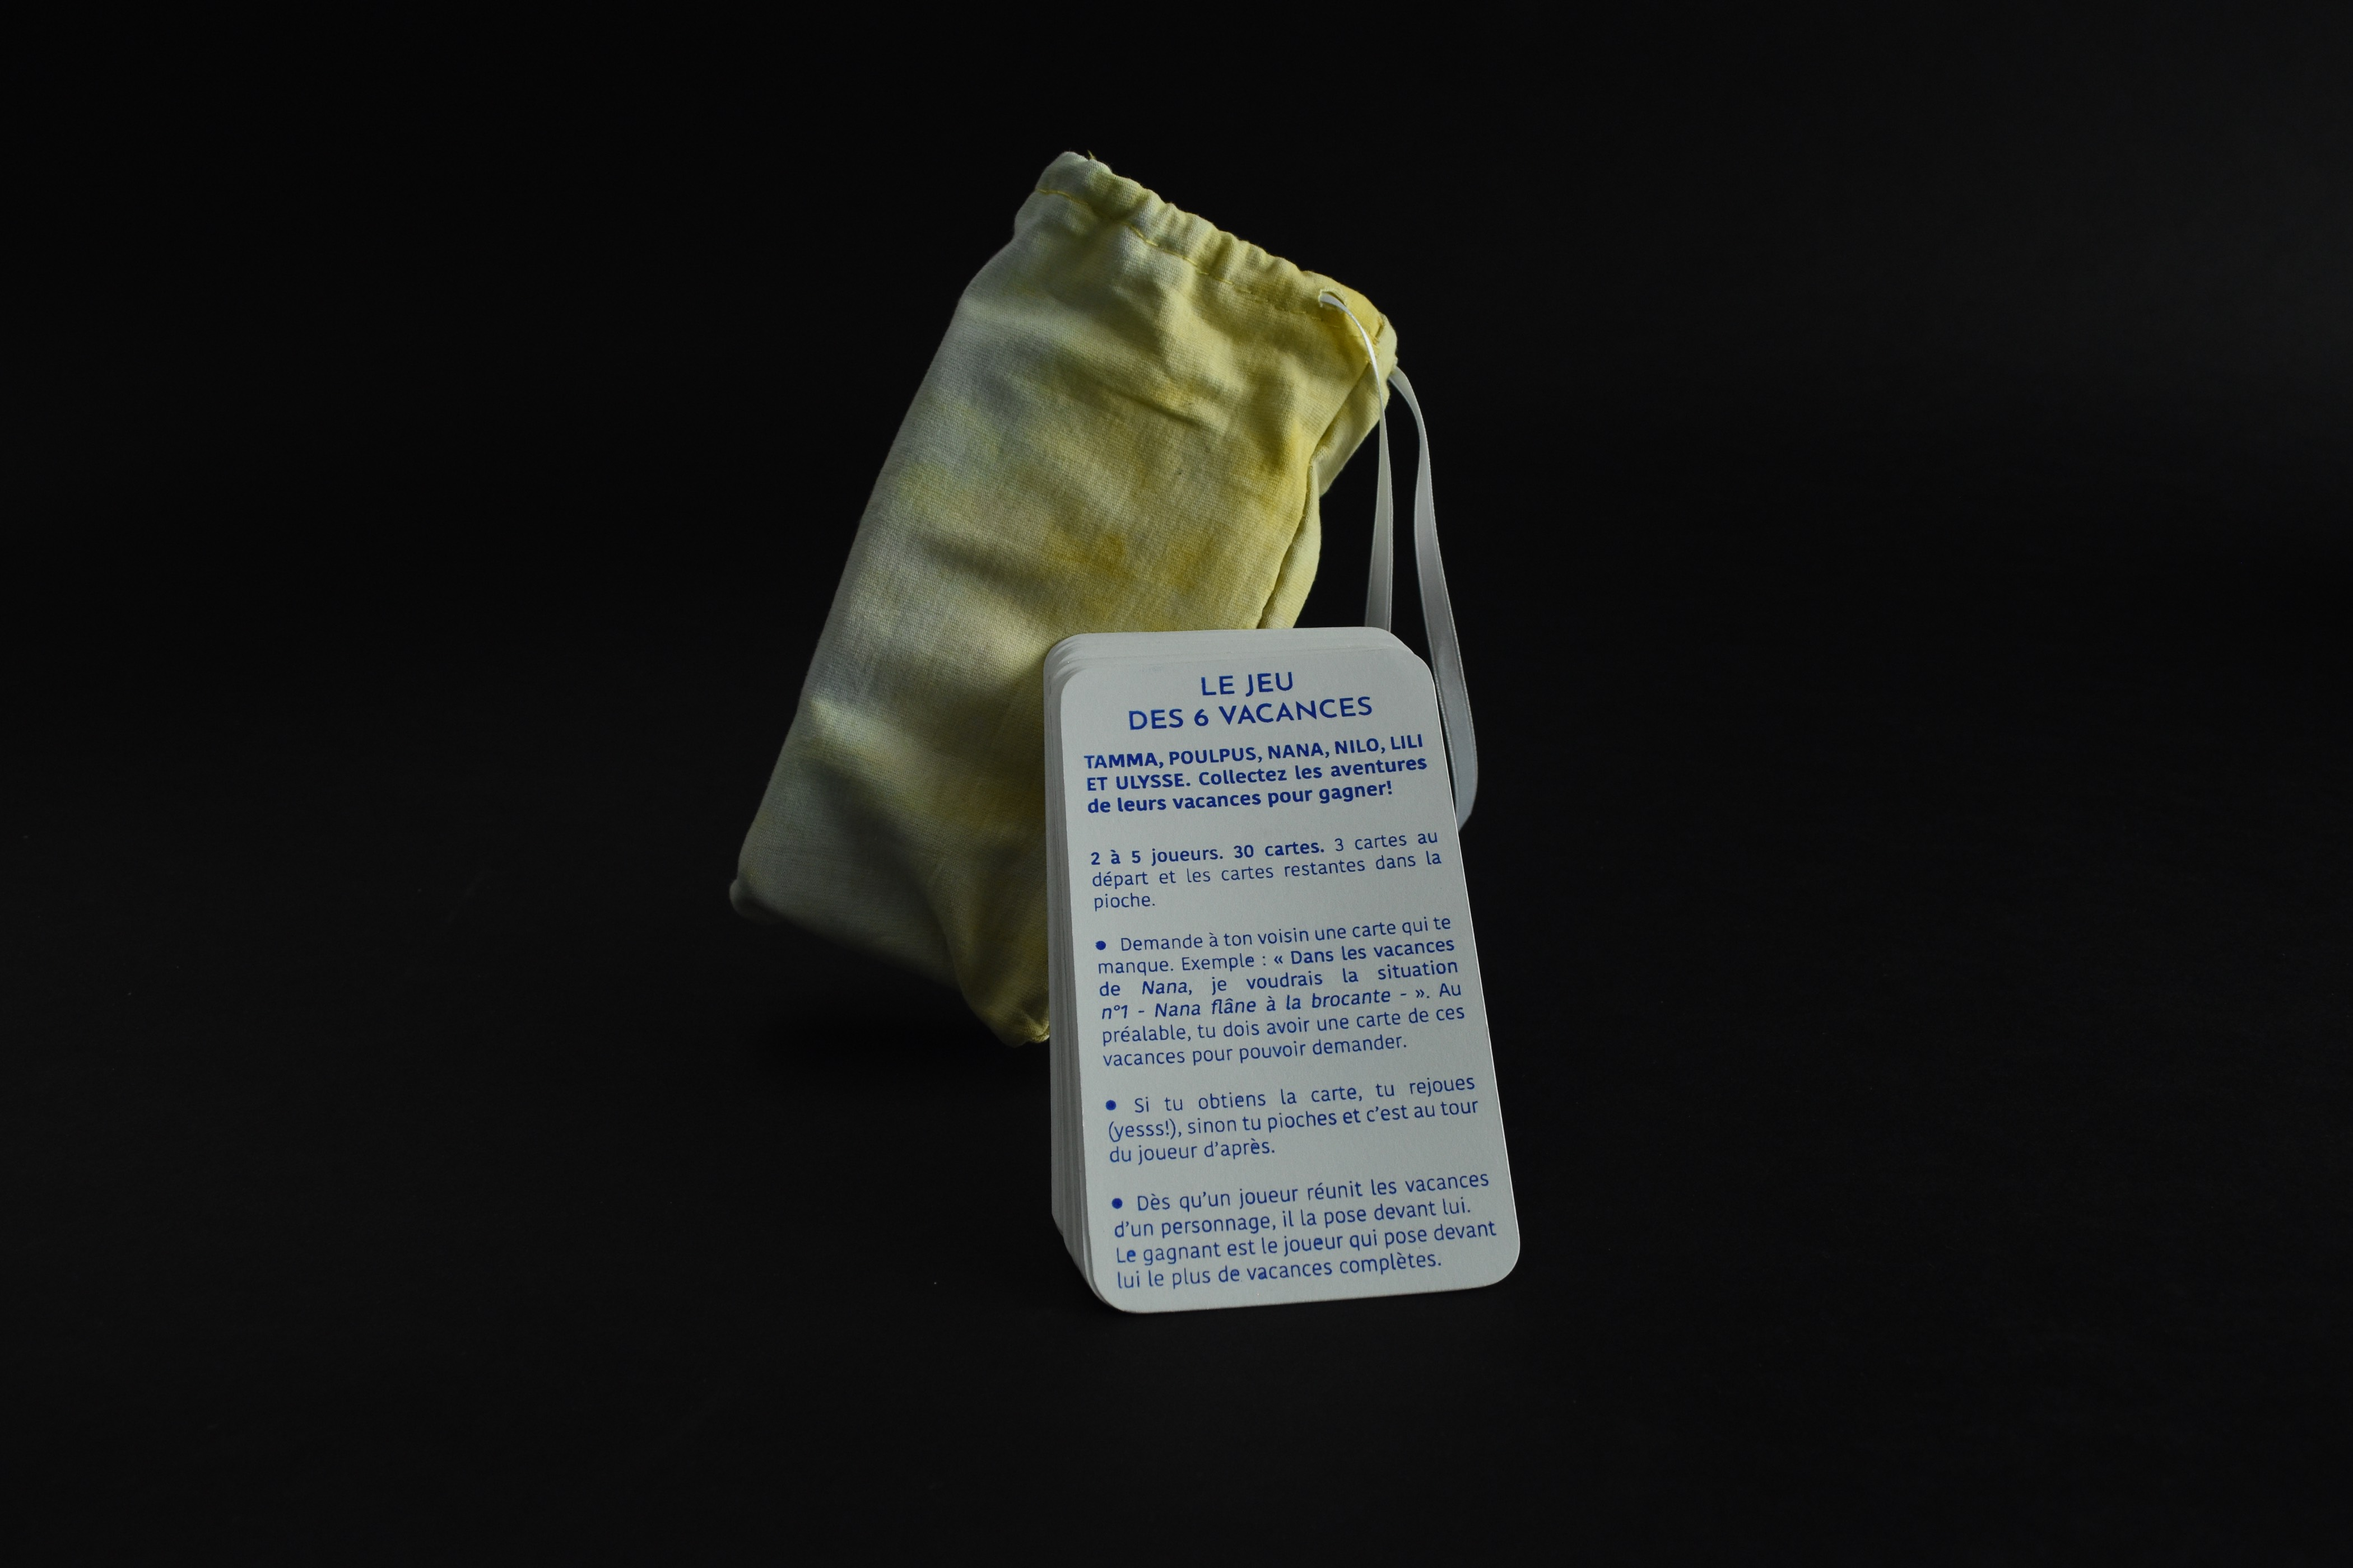
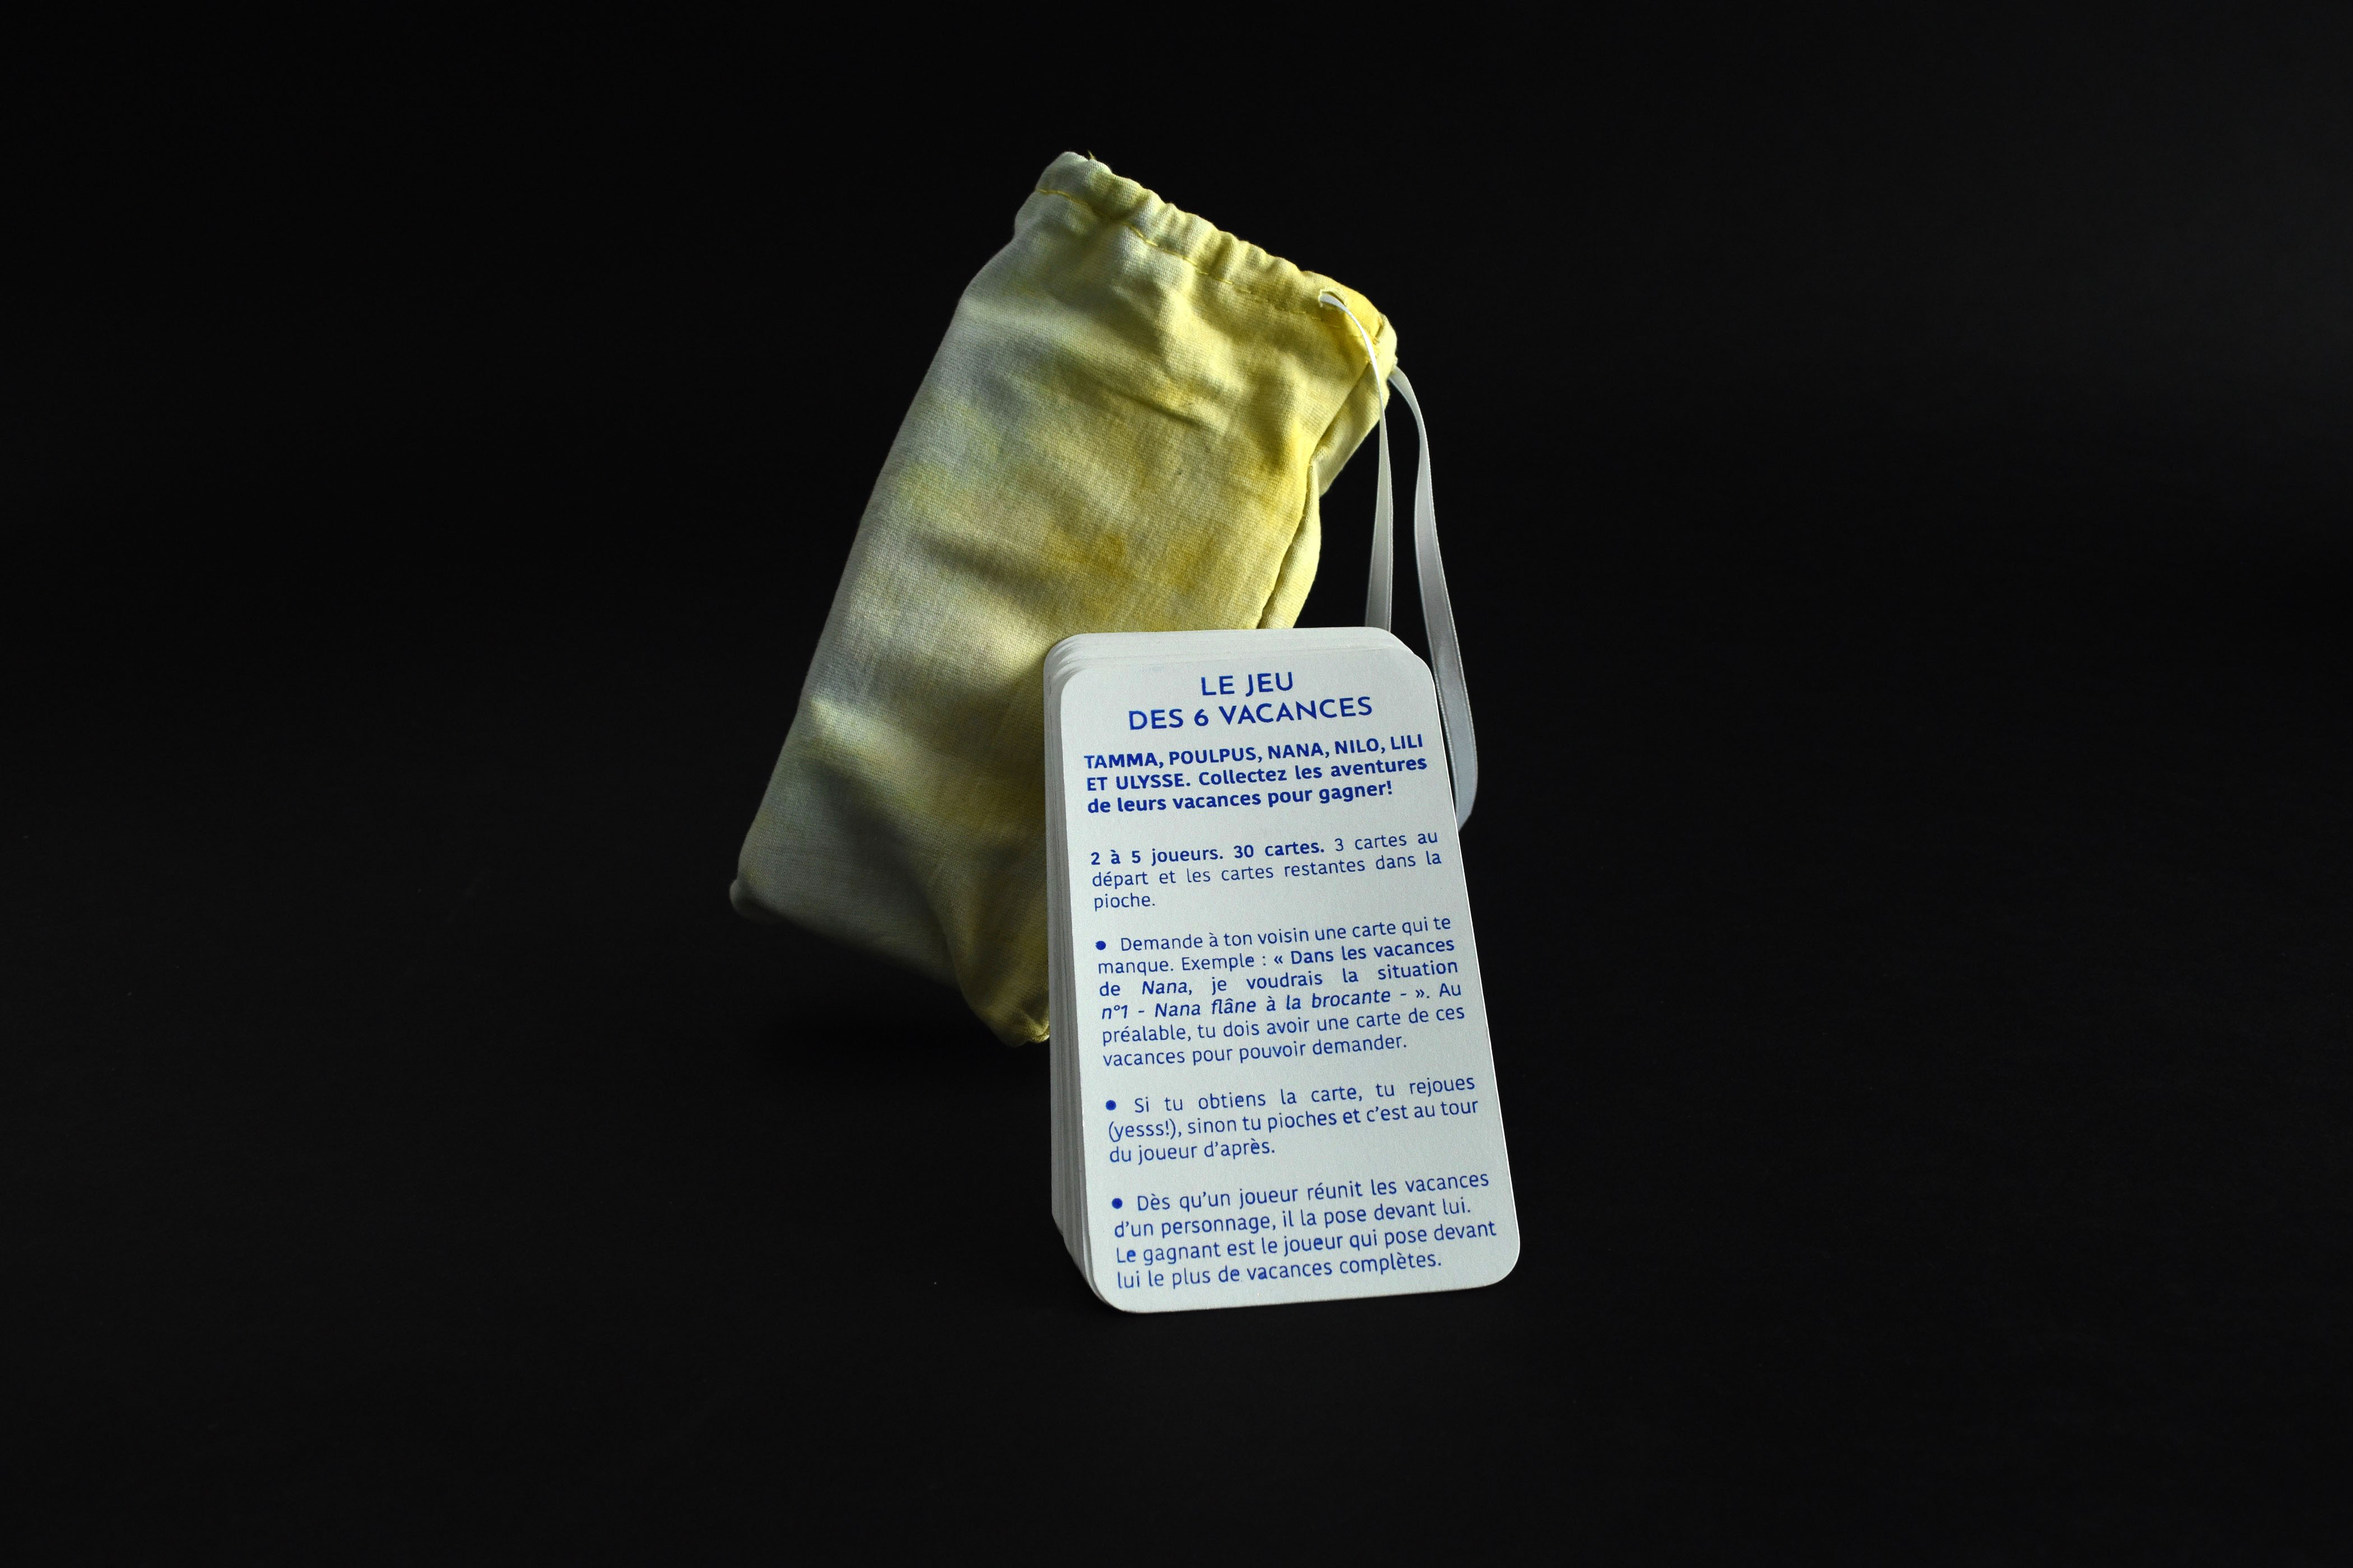
COLORIMÉTRIE
Ajustement colorimétrique des images  de projets et derniers réglages de placements

Changed region(s): [[0.3431, 0.0932, 0.655, 0.8389]]

diff --git a/style.css b/style.css
@@ -355,33 +355,41 @@ div.notice {
 .jpo1 {
     grid-column: 1/5;
     grid-row: 3/8;
+    border-radius: 40px;
 }
 
 .jpo2 {
     grid-column: 5/7;
     grid-row: 3/5;
+    border-radius: 40px;
 }
 
 .jpo3 {
     grid-column: 5/7;
     grid-row: 5/7;
+    border-radius: 40px;
 }
 
 .jpo4 {
-    grid-column: 3/5;
+    grid-column: 5/7;
+    grid-row: 7/9;
+    border-radius: 40px;
 }
 
 .jpo5 {
-    grid-column: 5/7;
-    transform: translate(0, -11.7vw);
+    grid-column: 3/5;
+    grid-row: 8/9;
+    border-radius: 40px;
 }
 
 .toh1 {
     grid-column: 1/-1;
+    border-radius: 40px;
 }
 
 .toh2 {
     grid-column: 1/5;
+    border-radius: 40px;
 }
 
 .toh3 {
@@ -403,10 +411,12 @@ div.notice {
 .toh6 {
     grid-column: 3/7;
     grid-row: 5/7;
+    border-radius: 40px;
 }
 
 .vac1 {
     grid-column: span 6;
+    border-radius: 40px;
 }
 
 .vac2 {
@@ -416,20 +426,24 @@ div.notice {
 
 .vac3 {
     grid-column: span 3;
+    border-radius: 40px;
 }
 
 .vac4 {
     grid-column: 4/7;
+    border-radius: 40px;
 }
 
 .vac5 {
     grid-column: 4/6;
     grid-row: 6/8;
+    border-radius: 40px;
 }
 
 .vac6 {
     grid-column: 1/5;
     grid-row: 8/11;
+    border-radius: 40px;
 }
 
 .vac7 {
@@ -469,6 +483,7 @@ div.notice {
 .vill2 {
     grid-column: 1/4;
     grid-row: 4/6;
+    border-radius: 40px;
 }
 
 .vill3 {
@@ -485,16 +500,19 @@ div.notice {
 .vill5 {
     grid-column: 1/5;
     grid-row: 6/8;
+    border-radius: 40px;
 }
 
 .vill6 {
     grid-column: 5/7;
     grid-row: 6/7;
+    border-radius: 40px;
 }
 
 .vill7 {
     grid-column: 5/7;
     grid-row: 7/8;
+    border-radius: 40px;
 }
 
 .vill8 {
@@ -523,47 +541,57 @@ div.notice {
 .insect1 {
     grid-column: 1/5;
     grid-row: 3/5;
+    border-radius: 40px;
 }
 
 .insect2 {
     grid-column: span 2;
+    border-radius: 40px;
 }
 
 .insect3 {
     grid-column: 1/4;
     grid-row: 5/7;
+    border-radius: 40px;
 }
 
 .insect4 {
     grid-column: 5/6;
+    border-radius: 40px;
 }
 
 .insect5 {
     grid-column: 5/7;
     grid-row: 4/5;
+    border-radius: 40px;
 }
 
 .insect6 {
     grid-column: 4/7;
     grid-row: 6/8;
+    border-radius: 40px;
 }
 
 .insect7 {
     grid-column: 1/3;
+    border-radius: 40px;
 }
 
 .insect8 {
     grid-column: 1/3;
+    border-radius: 40px;
 }
 
 .insect9 {
     grid-column: 1/3;
     grid-row: 9/10;
+    border-radius: 40px;
 }
 
 .insect10 {
     grid-column: 3/7;
     grid-row: 8/10;
+    border-radius: 40px;
 }
 
 video {
@@ -723,10 +751,6 @@ h1 {
 .sombre h1 {
     grid-column: 1/-1;
     color: rgb(255, 255, 255);
-}
-
-.sombre img {
-    border-radius: 40px;
 }
 
 .insectes h1 {

diff --git a/jpo.html b/jpo.html
@@ -46,8 +46,8 @@
       alt="Photographie présentant le projet de branding de l'activité du créateur de visible mending Tom Van Deijnen.">
     <img class="jpo3" src="IMG/JPO/JPO-main.jpg"
       alt="Photographie présentant le projet de la conception d'une affiche pour les journées portes ouvertes de l'École Auguste Renoir à Paris.">
-      <img class="jpo4" src="IMG/JPO/JPO-top.jpg" alt="Prise de vue de l'affiche pour les journées portes ouvertes">
-      <img class="jpo5" src="IMG/JPO/JPO-zoom.jpg" alt="Prise de vue d'un plan rapproché de l'affiche pour les journées portes ouvertes">
+      <img class="jpo4" src="IMG/JPO/JPO-zoom.jpg" alt="Prise de vue d'un plan rapproché de l'affiche pour les journées portes ouvertes">
+      <img class="jpo5" src="IMG/JPO/JPO-top.jpg" alt="Prise de vue de l'affiche pour les journées portes ouvertes">
   </div>
 </body>
 
